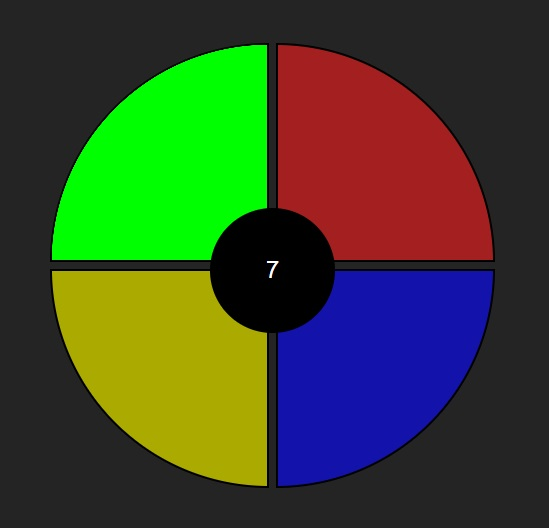
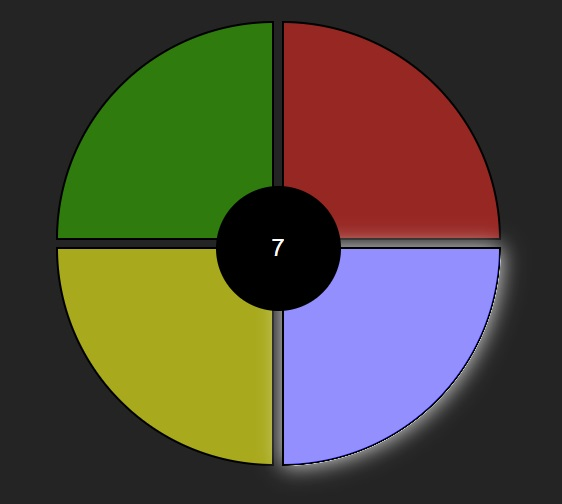
disable start button for simon and add some style for game card focus

diff --git a/client/src/App.css b/client/src/App.css
@@ -179,6 +179,12 @@ a {
   &:hover {
     border-color: white;
   }
+
+  &:focus {
+    outline-offset: 2px;
+    outline: 2px solid  var(--white);
+    border-radius: 12px;
+  }
   
   .game_card_title {
     background-color: var(--red);
@@ -300,6 +306,10 @@ a {
       border: 2px solid black;
       transition: all 0.2s ease;
       cursor: pointer;
+
+      &:focus {
+        outline: none;
+      }
     }
 
     #play_button {
@@ -318,6 +328,10 @@ a {
       &:active {
         border-color: var(--red);
       }
+
+      &:disabled {
+        pointer-events: none;
+      }
     }
 }
 
@@ -332,6 +346,7 @@ a {
   &:active {
     opacity: .9;
     transform: scale(0.995);
+    filter: drop-shadow(0px 0px 10px black)
   }
 }
 
@@ -346,6 +361,7 @@ a {
   &:active {
     opacity: .9;
     transform: scale(0.995);
+    filter: drop-shadow(0px 0px 10px black)
   }
 }
 
@@ -360,6 +376,7 @@ a {
   &:active {
     opacity: .9;
     transform: scale(0.995);
+    filter: drop-shadow(0px 0px 10px black)
   }
 }
 
@@ -374,11 +391,12 @@ a {
   &:active {
     opacity: .9;
     transform: scale(0.995);
+    filter: drop-shadow(0px 0px 10px black)
   }
 }
 
 .highlight {
-  filter: brightness(5) !important;
+  filter: drop-shadow(0px 0px 10px white) brightness(5) !important;
 }
 
 .opacity {
@@ -536,7 +554,7 @@ a {
 
 /* Special key sizes */
 .wordle-key.special {
-  width: 60px; /* Wider for Enter and Backspace */
+  width: 60px;
 }
 
 /* Game Status */
@@ -548,7 +566,6 @@ a {
 
 /* Responsive Design for Larger Screens */
 @media (min-width: 500px) {
-  /* Ensure that on Larger Screens the keyboard and other elements are responsive */
   .wordle-board {
     width: 370px;
     height: 510px;
@@ -625,7 +642,3 @@ a {
 /*               */
 /*   END MODAL   */
 /*               */
-
-
-
-

diff --git a/client/src/views/SimonSays.jsx b/client/src/views/SimonSays.jsx
@@ -136,7 +136,11 @@ function Simon({ isWinningModalOpen, setIsWinningModalOpen }) {
                     />
                 </div>
                 {/* START BUTTON */}
-                <button id="play_button" onClick={handleNextLevel}>
+                <button 
+                    id="play_button" 
+                    onClick={handleNextLevel}
+                    disabled={sequence.length > 0} 
+                >
                     {sequence.length === 0 ? "Start" : sequence.length}
                 </button>
             </div>
